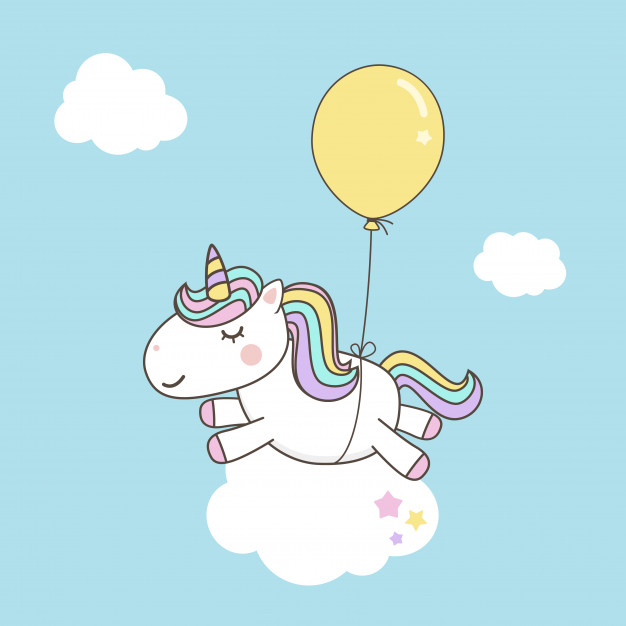
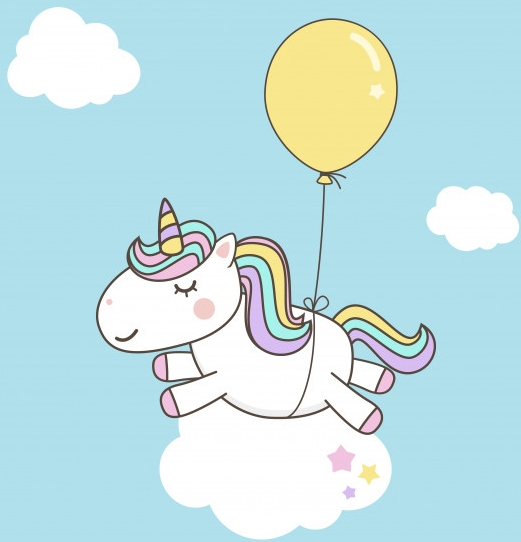
ok, seriously. Now im done

Changed region(s): [[0.1843, 0.0295, 0.8599, 1.0], [0.0, 0.0, 0.3071, 0.2657], [0.737, 0.3247, 1.0, 0.4723]]

diff --git a/cv/css/johanlind.css b/cv/css/johanlind.css
@@ -3,6 +3,15 @@
   src: url("../font/GoodUnicornTTF.ttf");
 }
 
+@keyframes MoveUpDown {
+  0%, 100% {
+    transform: translateY(0);
+  }
+  50% {
+    transform: translateY(-15px);
+  }
+}
+
 body {
     background-color: #B0E0EC;
     background-size: cover;
@@ -29,6 +38,7 @@ h5 {
   top: 0px;
   width: 99%;
   transition: top 0.5s;
+  z-index: 999;
 }
 
 .navbar a {
@@ -63,9 +73,12 @@ h5 {
   }
 
   .flex-container-picture-top img {
+    margin-top: 60px;
     align-self: center;
     max-height: 100%;
     max-width: 100%;
+    animation: MoveUpDown 5s linear infinite;
+    position: sticky;
   }
 
   .flex-container-headline-border {
@@ -83,8 +96,9 @@ h5 {
     background-image: url("../img/bg-cloud.png");
     background-size: 100% 100%;
     background-repeat: no-repeat;
-    padding-top: 300px;
-    padding-bottom: 250px;
+    margin-top: 50px;
+    padding-top: 100px;
+    padding-bottom: 100px;
     padding-left: 80px;
     padding-right: 80px;
   }
